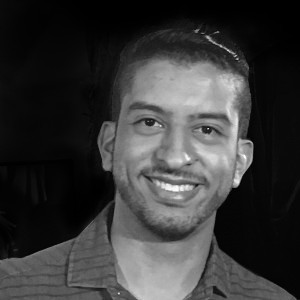
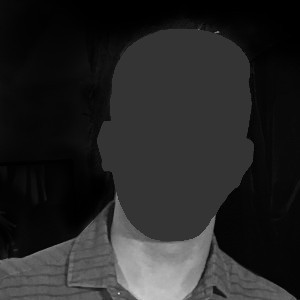
Update-not-really-update
This webpage has been neglected for too long. I may or
may not come back to add new info and write something
(like I've been telling myself I'd do for eons).

Changed region(s): [[0.33, 0.09, 0.87, 0.81], [0.36, 0.21, 0.42, 0.27], [0.48, 0.12, 0.54, 0.15]]

diff --git a/index.html b/index.html
@@ -16,8 +16,9 @@
       <div id="portrait"><img src="img/self.jpeg" data-src="img/self-dots.jpeg"></div>
       <div id="intro">
         <h1>Hi there!</h1>
-        <p>I'm <span id="fullname">Raphael Nova</span>, a brazilian application developer currently working for IBM. I specialize in writing distributed applications using <abbr title="Services Oriented Architecture">SOA</abbr> and Server/Client architecture, mostly for the web. Java and Ruby are the languages I'm more proficient at, but I also use Haskell in my spare time. I like the web, and I want to make it a safer place.</p>
-        <p>I'm based in Campinas, São Paulo.</p>
+        <p>I'm <span class="redacted">██████████</span>, a <span class="redacted">███████████████████</span> currently working for <span class="redacted">███</span>.
+		<span class="redacted">█&#x0200B;██████&#x0200B;█████&#x0200B;███████&#x0200B;████████&#x0200B;███&#x0200B;███&#x0200B;███&#x0200B;████████&#x0200B;████████&#x0200B;█████&#x0200B;██&#x0200B;██&#x0200B;████&#x0200B;███&#x0200B;███&#x0200B;███&#x0200B;███&#x0200B;███&#x0200B;██████&#x0200B;██&#x0200B;████&#x0200B;██████&#x0200B;██&#x0200B;██&#x0200B;█&#x0200B;███&#x0200B;███&#x0200B;█████&#x0200B;█&#x0200B;███&#x0200B;███&#x0200B;███&#x0200B;█&#x0200B;██&#x0200B;██&#x0200B;████&#x0200B;██&#x0200B;█&#x0200B;███&#x0200B;██&#x0200B;████&#x0200B;█&#x0200B;██</span> safer place.</p>
+        <p>I'm based in <span class="redacted">██████████████</span></p>
         <nav>
           <a class="fas fa-envelope-square" href="mailto:contact@raphaelnova.info"></a>
           <a class="fab fa-linkedin" href="https://www.linkedin.com/in/raphaelnova"></a>

diff --git a/css/main.css b/css/main.css
@@ -46,10 +46,6 @@ abbr {
 	margin: 0.1em 0 0.2em 0;
 }
 
-#intro #fullname {
-	font-weight: bold;
-}
-
 #intro nav {
 	margin-top: 1.7em;
 }
@@ -65,3 +61,6 @@ abbr {
 	color: #38c;
 }
 
+.redacted {
+	color: black;
+}
